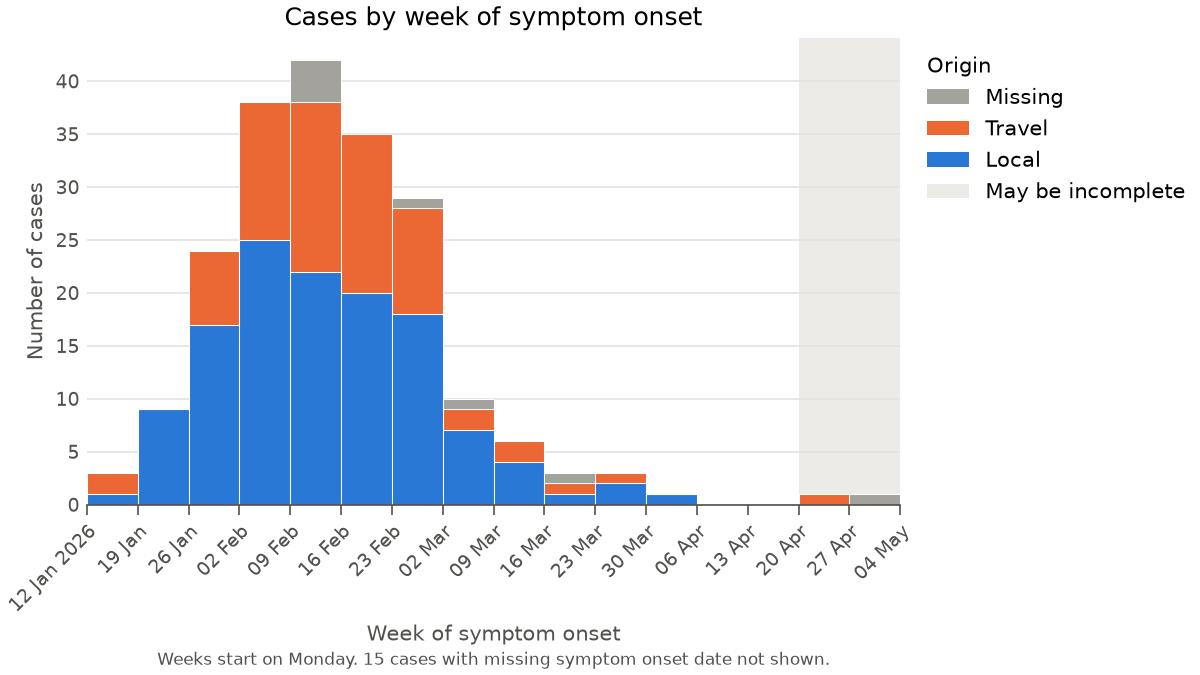
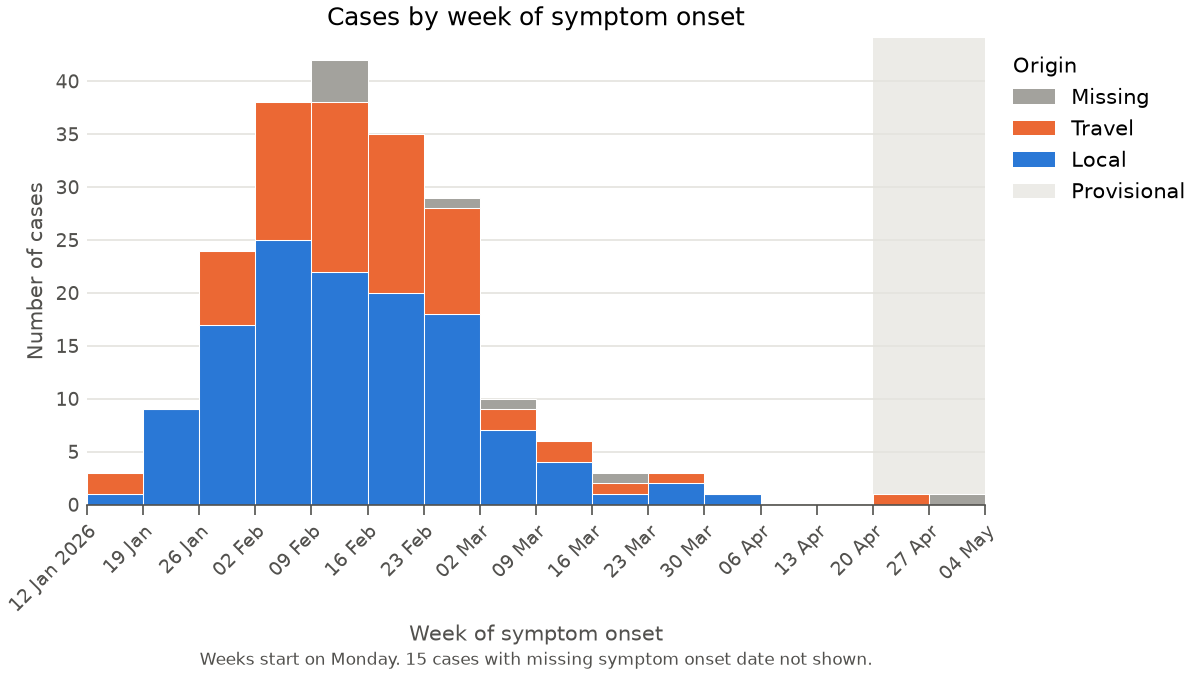
Label recent epicurve periods as Provisional

diff --git a/tests/test_epicurve.py b/tests/test_epicurve.py
@@ -112,7 +112,7 @@ def test_too_many_groups_raises_an_error() -> None:
 def test_incomplete_recent_data_is_shaded_and_explained() -> None:
     ax = epicurve(CASES, "onset", date_type="onset", incomplete_after="2026-03-16")
 
-    assert legend_labels(ax) == ["May be incomplete"]
+    assert legend_labels(ax) == ["Provisional"]
 
 
 def test_incomplete_shading_covers_whole_weeks() -> None:

diff --git a/src/epiplot/epicurve.py b/src/epiplot/epicurve.py
@@ -374,9 +374,7 @@ def epicurve(
                 linewidth=0,
                 zorder=0,
             )
-            handles.append(
-                Patch(facecolor=_INCOMPLETE_COLOR, label="May be incomplete")
-            )
+            handles.append(Patch(facecolor=_INCOMPLETE_COLOR, label="Provisional"))
 
     if handles:
         ax.legend(
